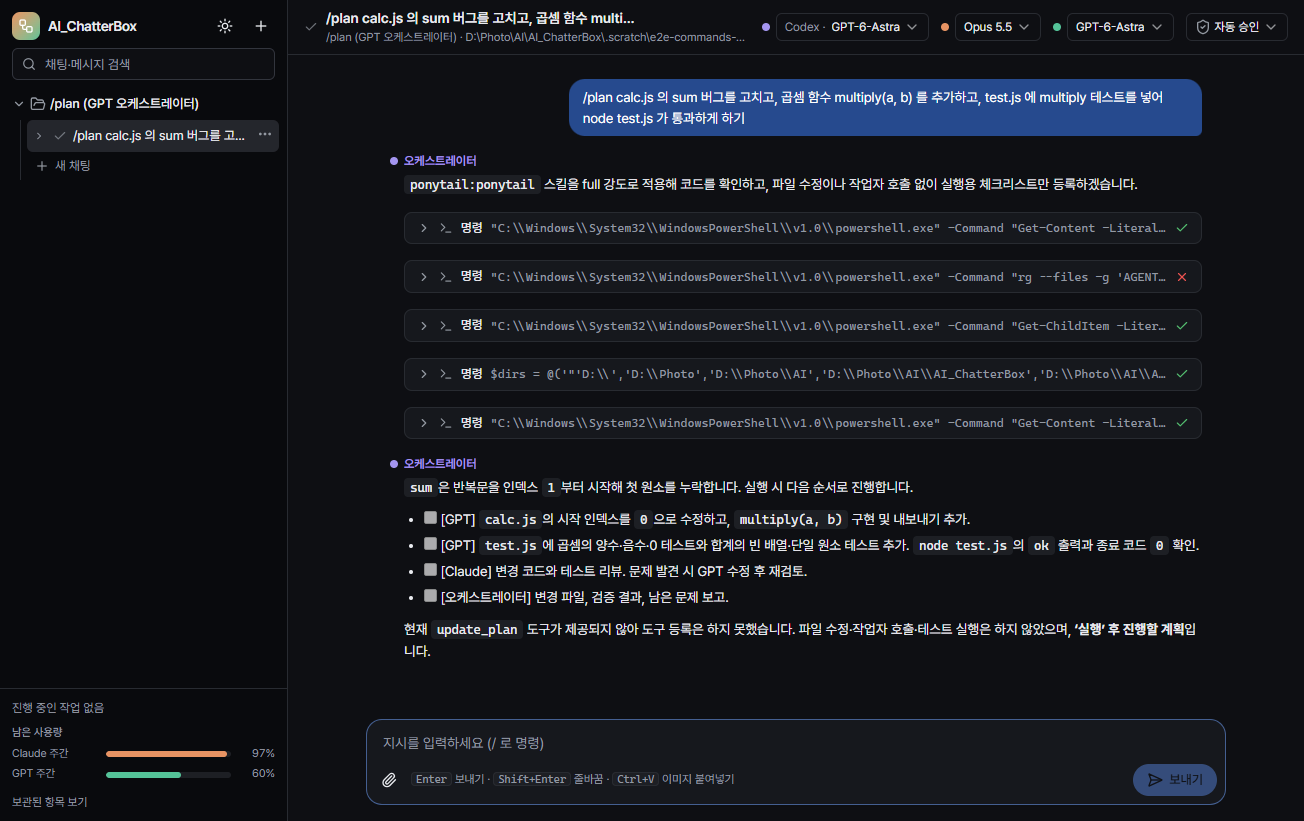
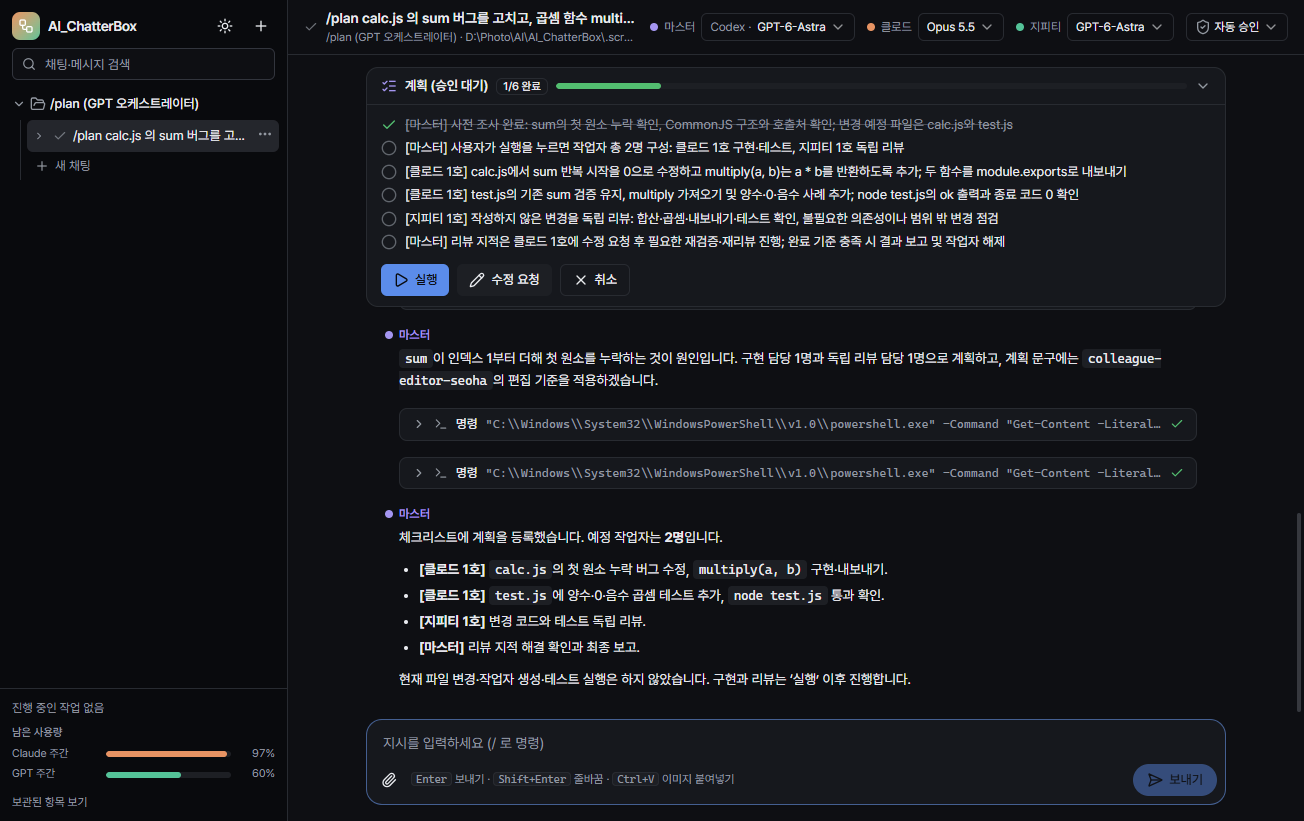
v0.3.0: 마스터 + 작업자 팀, 슬래시 명령
Version 0.3.0. Team e2e (Claude master) 13/13, /plan and /goal e2e 13/13 for both Claude and GPT masters, unit tests 22/22, user DB copy migration 5/5.

diff --git a/docs/checklist-v2.md b/docs/checklist-v2.md
@@ -1,26 +1,29 @@
 # v0.2.x 실사용 점검 목록
 
-`release\AI_ChatterBox-0.2.1-portable.exe`로 직접 확인할 항목입니다. 자동 e2e(`scripts/e2e-v1/2/3.mjs`)가 같은 흐름을 진짜 CLI로 이미 검사했고, 결과는 아래 "자동 검사" 칸에 적었습니다.
+`release\AI_ChatterBox-0.3.0-portable.exe`로 직접 확인할 항목입니다. 자동 e2e(`scripts/e2e-v1/2/3.mjs`)가 같은 흐름을 진짜 CLI로 이미 검사했고, 결과는 아래 "자동 검사" 칸에 적었습니다.
 
 | # | 확인할 것 | 방법 | 자동 검사 |
 |---|---|---|---|
 | 1 | 첫 실행 | exe 더블클릭 → SmartScreen이면 "추가 정보 → 실행" → 10초쯤 뒤 창이 뜸 | v3 |
-| 2 | 새 프로젝트 | 왼쪽 위 + → 찾아보기로 작업 폴더 선택 → 모델 세 개 확인(기본: 오케스트레이터 Claude Opus, Claude Opus, GPT-6-Astra) → 만들기 | v1 |
+| 2 | 새 프로젝트 | 왼쪽 위 + → 찾아보기로 작업 폴더 선택 → 모델 세 개 확인(기본: 마스터 Claude Opus, Claude Opus, GPT-6-Astra) → 만들기 | v1 |
 | 3 | 모델 목록 | 프로젝트 설정의 각 드롭다운에 CLI가 알려 준 모델이 보이고, "직접 입력…"으로 다른 id를 넣을 수 있음 | v1 |
-| 4 | 이미지 첨부 | 스크린샷을 Ctrl+V로 붙여넣기 / 파일을 끌어다 놓기 / 📎 → 썸네일이 보이고 × 로 지울 수 있음 → 보내면 오케스트레이터가 이미지를 설명 | v1 |
-| 5 | 협업 | 실제 프로젝트에서 "○○ 버그 고쳐줘" → 협의 카드가 "오케스트레이터 → Claude/GPT · 구현", 이어서 다른 작업자 "리뷰"로 뜸 → 최종 보고 | v2, v3 |
-| 6 | 자동 승인 (0.2.1) | 기본값 "자동 승인": 작업자가 파일을 고치거나 테스트를 돌리면 카드 대신 "✓ 오케스트레이터 승인 · … — 이유" 한 줄이 뜸 (눌러서 상세). 작업 폴더 밖 쓰기·재귀 삭제·git push 등은 오케스트레이터 의견과 함께 3버튼 카드로 물음 | v0.2.1 J |
+| 4 | 이미지 첨부 | 스크린샷을 Ctrl+V로 붙여넣기 / 파일을 끌어다 놓기 / 📎 → 썸네일이 보이고 × 로 지울 수 있음 → 보내면 마스터가 이미지를 설명 | v1 |
+| 5 | 협업 | 실제 프로젝트에서 "○○ 버그 고쳐줘" → 협의 카드가 "마스터 → Claude/GPT · 구현", 이어서 다른 작업자 "리뷰"로 뜸 → 최종 보고 | v2, v3 |
+| 6 | 자동 승인 (0.2.1) | 기본값 "자동 승인": 작업자가 파일을 고치거나 테스트를 돌리면 카드 대신 "✓ 마스터 승인 · … — 이유" 한 줄이 뜸 (눌러서 상세). 작업 폴더 밖 쓰기·재귀 삭제·git push 등은 마스터 의견과 함께 3버튼 카드로 물음 | v0.2.1 J |
 | 6-1 | 직접 승인 | 채팅 상단 "자동 승인" → "매번 직접 승인"으로 바꾸면 예전처럼 매번 카드 | v2 |
 | 7 | 추가 지시 | 작업 중에 입력창에 지시를 보내면 "작업 중 추가 지시"로 표시되고 최종 보고에 반영됨 | v2 |
 | 8 | 중지 | 작업 중 오른쪽 위 "중지" → 두 에이전트가 멈추고 협의가 "중지됨" | v2 |
-| 9 | 트리 | 채팅 펼치기 → 오케스트레이터 대화 · Claude 대화 · GPT 대화 · 협의 N, 각각 눌러 해당 기록만 보기 | v1, v2 |
+| 9 | 트리 | 채팅 펼치기 → 마스터 대화 · Claude 대화 · GPT 대화 · 협의 N, 각각 눌러 해당 기록만 보기 | v1, v2 |
 | 10 | 채팅별 모델 | 채팅 상단에서 Claude/GPT 모델을 바꾸면 "(프로젝트 기본값)" 표시가 사라지고, "프로젝트 값 사용"으로 되돌릴 수 있음 | v1 |
-| 11 | 오케스트레이터 전환 | 채팅 상단 오케스트레이터 드롭다운(0.2.1) 또는 프로젝트 설정에서 GPT 모델로 바꾸고 같은 채팅에 지시 → "요약을 넘깁니다" 안내 후 앞 대화를 아는 답이 옴 | v3, v0.2.1 P |
+| 11 | 마스터 전환 | 채팅 상단 마스터 드롭다운(0.2.1) 또는 프로젝트 설정에서 GPT 모델로 바꾸고 같은 채팅에 지시 → "요약을 넘깁니다" 안내 후 앞 대화를 아는 답이 옴 | v3, v0.2.1 P |
 | 12 | 재실행 | 앱을 닫았다가 다시 열면 마지막 채팅이 열리고, 이어서 지시하면 맥락이 이어짐 | v1, v3 |
 | 13 | 검색 | 왼쪽 검색창에 메시지 속 단어 입력 → 해당 채팅만 남음 | v1, v3 |
 | 14 | 남은 사용량 (0.2.1) | 왼쪽 아래 Claude / GPT "주간" 남은 % (5시간 남은 양이 10% 이하면 빨간 "5시간") · 마우스를 올리면 초기화 시각 | 단위 테스트 |
 | 17 | 트레이 (0.2.1) | 작업 중 창 닫기 → 트레이에 남아 계속 작업, 끝나면 알림 → 트레이 아이콘 눌러 다시 열기. 종료는 트레이 메뉴 / Ctrl+Q (작업 중이면 확인) | v0.2.1 T |
 | 18 | 이어서 진행 (0.2.1) | 작업 중에 종료한 뒤 다시 열면 채팅에 "중단됨" + 이어서 진행 → 누르면 남은 작업을 마침 | v0.2.1 R |
+| 20 | 작업자 팀 (0.3) | 두 갈래 이상인 큰 작업 지시 → 마스터가 클로드 1호·2호, 지피티 1호처럼 작업자를 만들고, 상단에 작업자 칩, 트리에 각 작업자와 "협의 N · 마스터 → 클로드 2호" 표시. 범위가 다른 구현은 동시에 진행 | e2e-team |
+| 21 | 범위 밖 쓰기 (0.3) | 작업자가 맡은 범위 밖 파일을 고치려 하면 "✕ 마스터 거부 — 맡은 범위 밖" 한 줄이 뜨고 파일은 그대로 | e2e-team |
+| 22 | 슬래시 명령 (0.3) | 입력창에 / → 명령 목록. /plan → 체크리스트 카드 → 실행 → 모두 완료. /goal → 상단 목표 막대 → 완료. /status, /new, /stop, /compact | e2e-commands |
 | 19 | 중복 실행 (0.2.1) | 앱이 떠 있는데 exe를 또 실행 → 새 창 대신 기존 창이 앞으로 옴 (0.2.0이 떠 있으면 "이전 버전이 실행 중입니다") | 가드 검사 |
 | 15 | 테마 | 해 / 달 아이콘으로 라이트·다크 전환, 다시 열어도 유지 | v1 |
 | 16 | 정리 | 앱을 닫은 뒤 작업 관리자에 claude.exe / codex.exe가 이 앱 때문에 남아 있지 않음 | v1, v2, v3 |
